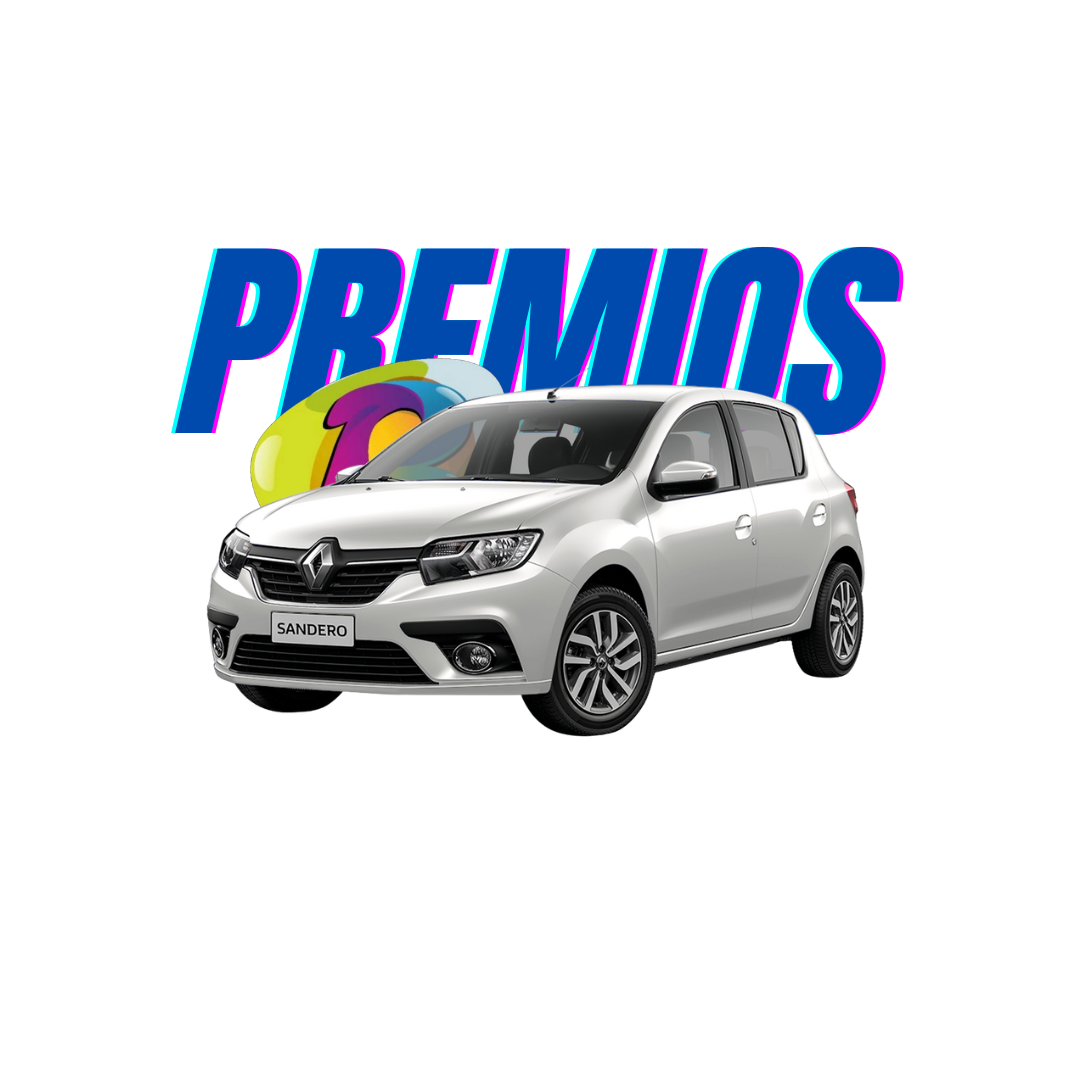
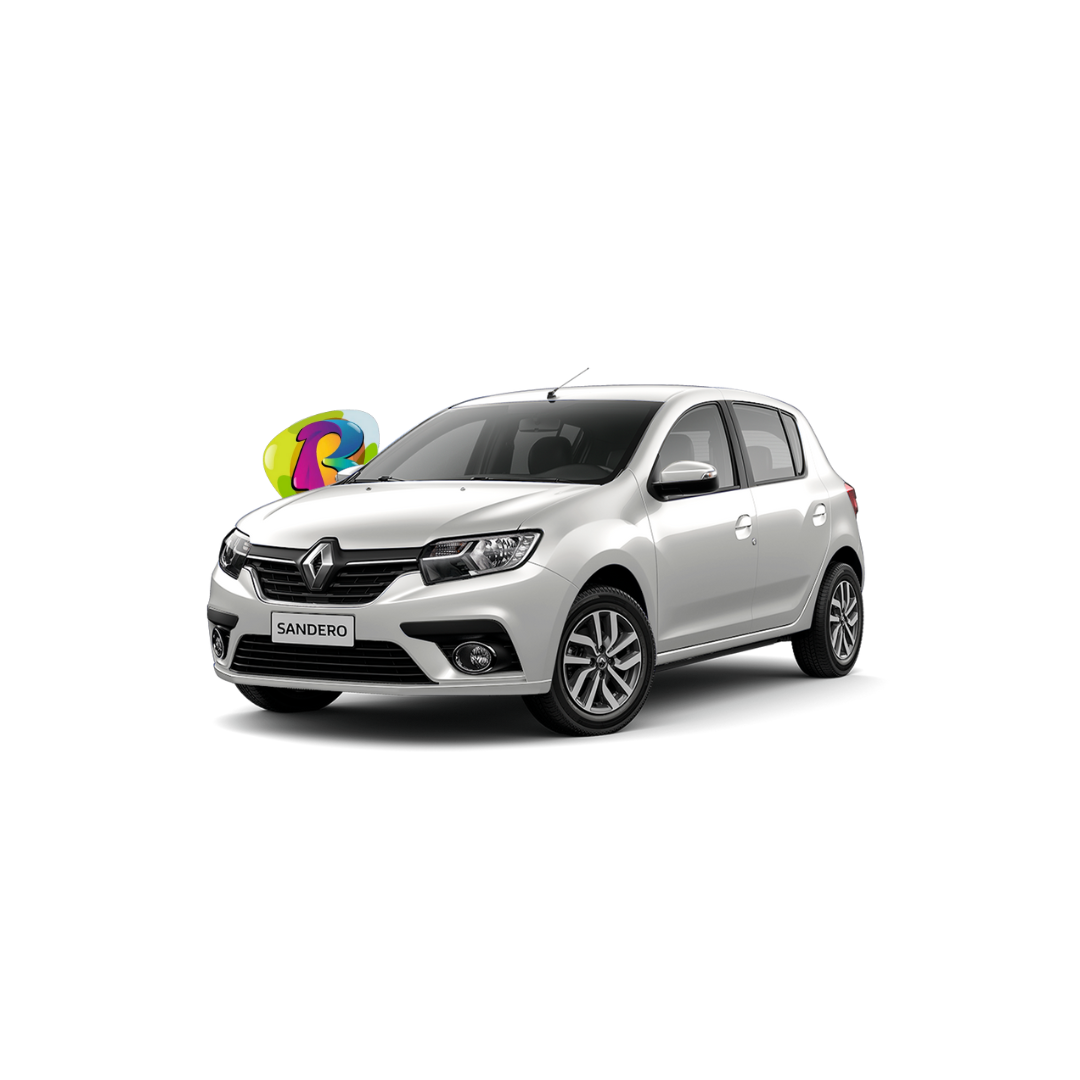
10git add .

Changed region(s): [[0.1528, 0.2139, 0.8556, 0.4889], [0.2139, 0.5806, 0.7944, 0.7028], [0.7028, 0.3972, 0.7333, 0.4278]]

diff --git a/css/style.css b/css/style.css
@@ -12,13 +12,22 @@ a {
 body {
     height: fit-content;
     width: 100%;
-    background: linear-gradient(180deg, red, blue) !important;
+    background: linear-gradient(180deg, #740d78, #000) !important;
     background-position: center center;
     background-repeat: no-repeat;
     background-size: cover;
 }
 
-@keyframes fourD {
+.container_banner {
+    background: url("../img/monedines.png");
+    background-position: center center;
+    background-repeat: no-repeat;
+    background-size: cover;
+    width: 100%;
+    height: 100vh;
+}
+
+/* @keyframes fourD {
     0% {
         -webkit-transform: scale(1.5);
         transform: scale(1.5);
@@ -31,7 +40,7 @@ body {
         -webkit-transform: scale(1.5);
         transform: scale(1.5);
     }
-}
+} */
 @keyframes fourDLis {
     0% {
         -webkit-transform: scale(1);
@@ -46,7 +55,7 @@ body {
         transform: scale(1);
     }
 }
-@keyframes fourDBanner {
+/* @keyframes fourDBanner {
     0% {
         -webkit-transform: scale(1.2);
         transform: scale(1.2);
@@ -59,7 +68,7 @@ body {
         -webkit-transform: scale(1.2);
         transform: scale(1.2);
     }
-}
+} */
 @keyframes rotate {
     0% {
         transform: rotateY(90deg);
@@ -91,6 +100,26 @@ body {
         transform: rotateZ(0deg);
     }
 }
+@keyframes aparecerIzquierda {
+    0% {
+        margin-left: -300px;
+        opacity: 0;
+    }
+    100% {
+        margin-left: 0;
+        opacity: 1;
+    }
+}
+@keyframes apareceraDerecha {
+    0% {
+        margin-right: -300px;
+        opacity: 0;
+    }
+    100% {
+        margin-right: 0;
+        opacity: 1;
+    }
+}
 
 header {
     display: flex;
@@ -116,32 +145,33 @@ header {
     display: none;
 }
 
-.title_banner {
+.arriba, .abajo {
     display: flex;
-    align-items: center;
-    justify-content: center;
-    color: #fff;
-    font-size: 40px;
-    margin-bottom: 50px;
-}
-.fotos_banner {
-    display: flex;
-    justify-content: center;
+    justify-content: space-between;
     align-items: center;
 }
+
+.grid2 {
+    animation: fourDLis 1s infinite;
+}
+.grid3, .grid5 {
+    animation: apareceraDerecha .5s;
+}
+.grid1, .grid4 {
+    animation: aparecerIzquierda .5s;
+}
+
 .fotos_banner img {
-    height: 500px;
-    width: 500px;
-    border-radius: 55px;
-    animation: fourDBanner 1.5s ease-in-out infinite both;
+    height: 400px;
+    width: 400px;
 }
 .img_comprar_bingo {
     display: flex;
     justify-content: flex-end;
     align-items: flex-start;
-    position: absolute;
-    margin-top: -100px;
-    right: 20%;
+    position: fixed;
+    top: 80%;
+    left: 5%;
 }
 .img_comprar_bingo a {
     animation: rotate 1.5s ease-in-out infinite both;

diff --git a/index.html b/index.html
@@ -35,12 +35,17 @@
     <banner>
         <div class="container_banner">
 
-            <div class="title_banner">
-                <h1>Premios!!</h1>
-            </div>
-
             <div class="fotos_banner">
-                <img class="img_banner" src="img/slide1.png" alt="Slide 1">
+                <div class="arriba">
+                    <img class="img_banner grid1" src="img/slide1.png" alt="Slide 1">
+                    <img class="img_banner grid2" src="img/logito gran bingo.png" alt="Slide 3">
+                    <img class="img_banner grid3" src="img/slide2.png" alt="Slide 2">
+                </div>
+
+                <div class="abajo">
+                    <img class="img_banner grid4" src="img/slide3.png" alt="Slide 4">
+                    <img class="img_banner grid5" src="img/slide4.png" alt="Slide 5">
+                </div>
             </div>
 
             <div class="img_comprar_bingo">
@@ -194,7 +199,7 @@
         </div>
     </footer>
 
-    <script src="js/banner.js"></script>
+    <!-- <script src="js/banner.js"></script> -->
     <script src="js/enviarwspform.js"></script>
 </body>
 </html>
